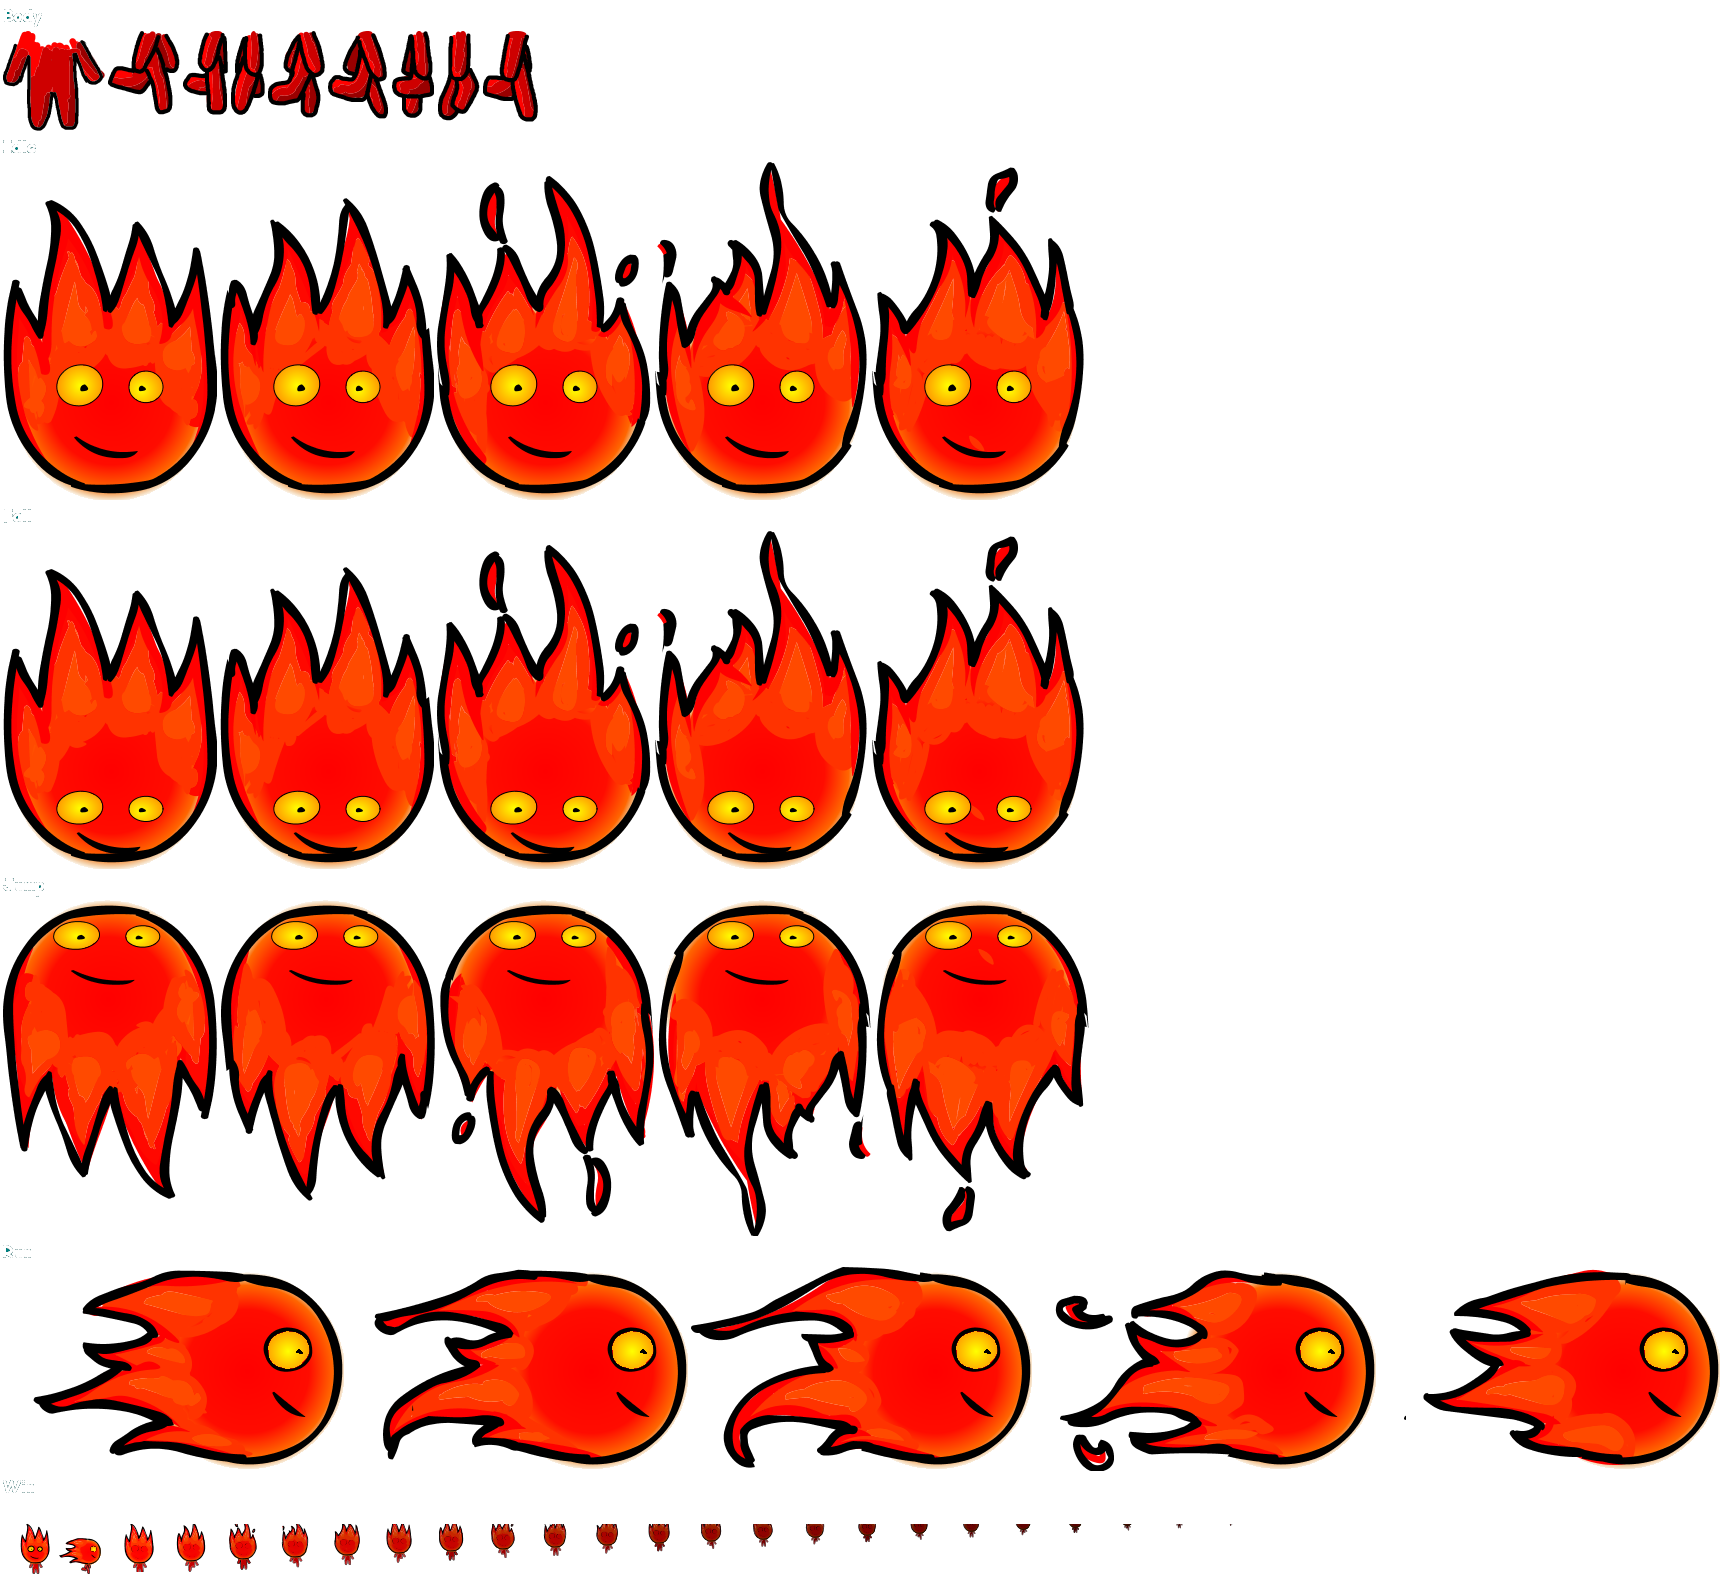
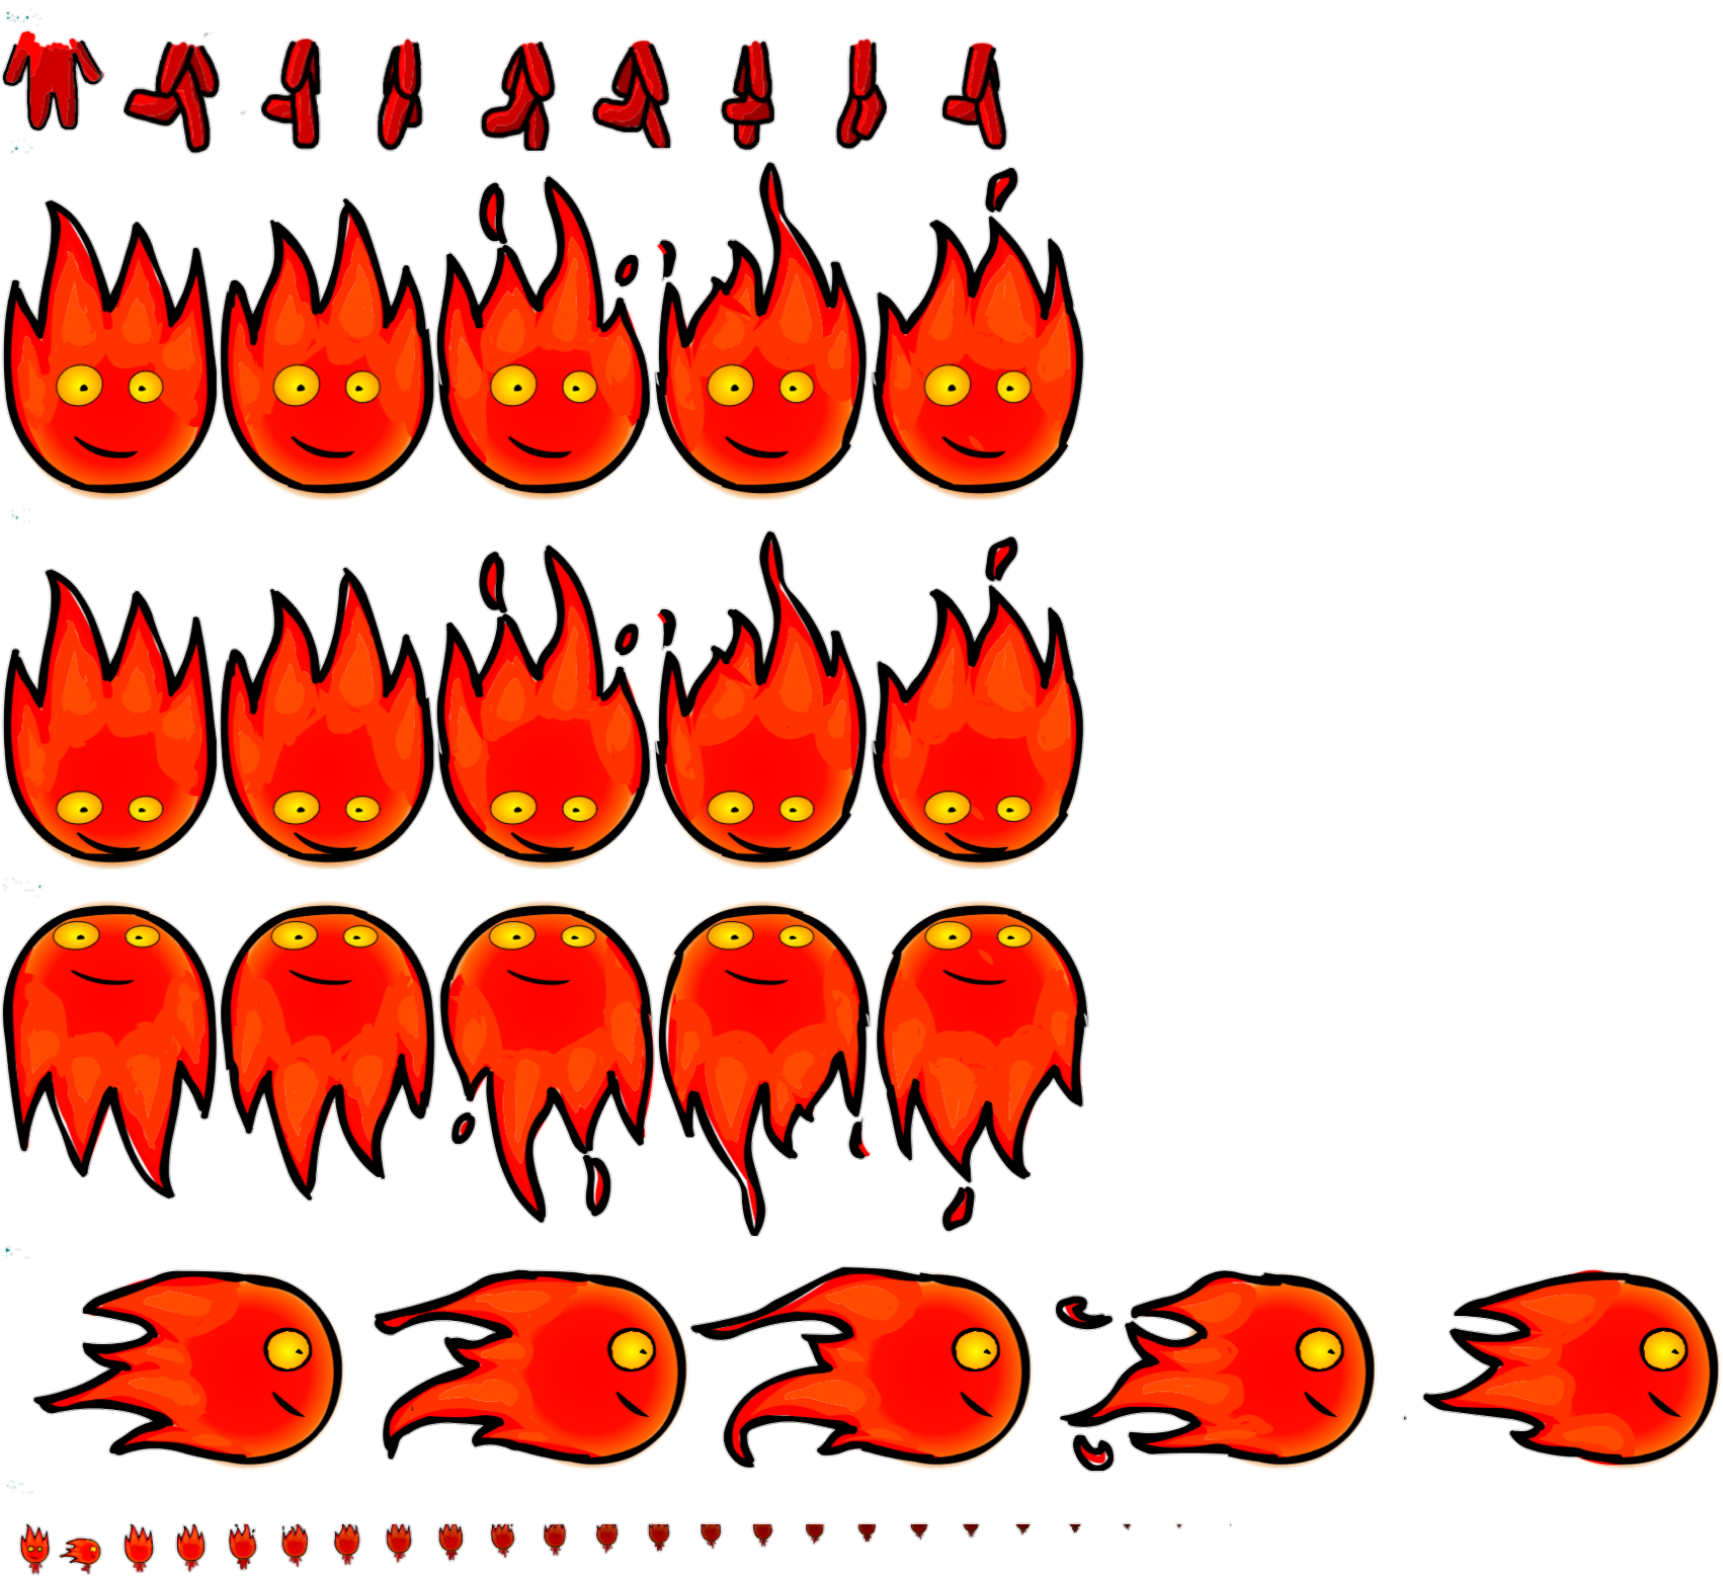
Ajeita animações do fogo e agua

diff --git a/FireboyWatergirl/Player.cpp b/FireboyWatergirl/Player.cpp
@@ -26,18 +26,18 @@ Player::Player(bool is_fireboy) : is_fireboy(is_fireboy)
     if (is_fireboy) {
         tiles = new Image("Resources/Characters/Fireboy.png");
 
-        anim_head_idle = new Animation(TileSet(tiles, 217, 338, 1, 5, 2, 162), 0.05f, true, true);
-        anim_head_fall = new Animation(TileSet(tiles, 217, 338, 1, 5, 2, 532), 0.05f, true, true);
-        anim_head_jump = new Animation(TileSet(tiles, 217, 338, 1, 5, 2, 900), 0.05f, true, true);
+        anim_head_idle = new Animation(TileSet(tiles, 217, 338, 1, 5, 2, 162), 0.05f, true);
+        anim_head_fall = new Animation(TileSet(tiles, 217, 338, 1, 5, 2, 532), 0.05f, true);
+        anim_head_jump = new Animation(TileSet(tiles, 217, 338, 1, 5, 2, 900), 0.05f, true);
 
-        anim_head_run = new Animation(TileSet(tiles, 344, 204, 1, 5, 2, 1267), 0.05f, true, true);
+        anim_head_run = new Animation(TileSet(tiles, 344, 204, 1, 5, 2, 1267), 0.05f, true);
 
-        anim_body_run = new Animation(TileSet(tiles, 72, 84, 1, 8, 108, 31), 0.05f, true, true);
+        anim_body_run = new Animation(TileSet(tiles, 116, 100, 1, 8, 106, 40), 0.05f, true);
 
-        anim_body_idle = new Animation(TileSet(tiles, 102, 100, 1, 1, 3, 31), 0.05f, true, true);
+        anim_body_idle = new Animation(TileSet(tiles, 102, 100, 1, 1, 3, 31), 0.05f, true);
 
         // TODO
-        anim_win = new Animation(TileSet(tiles, 341, 204, 1, 5, 3, 1267), 0.05f, true, true);     
+        anim_win = new Animation(TileSet(tiles, 341, 204, 1, 5, 3, 1267), 0.05f, true);     
     }
     else {
         tiles = new Image("Resources/Characters/Watergirl.png");
@@ -48,7 +48,7 @@ Player::Player(bool is_fireboy) : is_fireboy(is_fireboy)
 
         anim_head_run = new Animation(TileSet(tiles, 378, 240, 1, 11, 2, 1877), 0.05f, true);
 
-        anim_body_run = new Animation(TileSet(tiles, 72, 84, 1, 8, 108, 31), 0.05f, true);
+        anim_body_run = new Animation(TileSet(tiles, 118, 100, 1, 8, 95, 40), 0.05f, true);
 
         anim_body_idle = new Animation(TileSet(tiles, 102, 100, 1, 1, 3, 31), 0.05f, true);
 
@@ -109,10 +109,10 @@ void Player::Reset(int level)
 
 void Player::updateState()
 {
-    if (velocity->YComponent() > 0 && velocity->Angle() == 90) {
+    if (velocity->YComponent() > 0 && velocity->Angle() > 85 && velocity->Angle() < 95) {
         state = JUMPING;
     }
-    else if (abs(velocity->XComponent()) > 0) {
+    else if (abs(velocity->XComponent()) > 0.1) {
         state = RUNNING;
     }
     else if (velocity->YComponent() < 0) {
@@ -220,9 +220,6 @@ void Player::Update()
 
     if (!enable_controls) return;
 
-    OutputDebugString(std::to_string(gameTime).c_str());
-    OutputDebugString("\n");
-
     // Resetar o estado em todo frame para conferir na colisão com o portal para o próximo nível
     ready_next_level = false;
 
@@ -253,7 +250,7 @@ void Player::Update()
         if (
             !window->KeyDown(controls[key_right][is_fireboy]) && !window->KeyDown(controls[key_left][is_fireboy]) ||
             window->KeyDown(controls[key_right][is_fireboy]) && window->KeyDown(controls[key_left][is_fireboy])
-            ) {
+        ) {
             slowDown();
         }
     }
@@ -289,10 +286,22 @@ inline void Player::Draw()
     case RUNNING:
         current_anim_body = anim_body_run;
         current_anim_head = anim_head_run;
-        mirror_x = (velocity->XComponent() < 0);
+        if (velocity->YComponent() != 0) current_anim_body->Restart();
+
         rotation_head = (velocity->XComponent() > 0) ? velocity->Angle() : velocity->Angle() - 180;
         if (rotation_head > 45 && rotation_head < 90)        rotation_head = 45;
         else if (rotation_head < 315 && rotation_head > 270) rotation_head = 315;
+
+        mirror_x = (velocity->XComponent() < 0);
+        offset_y -= 20;
+        if (is_fireboy) {
+            offset_x = mirror_x ? -35 : 40;
+        }
+        else {
+            offset_x = mirror_x ? -40 : 40;
+            if (rotation_head != 0 && velocity->YComponent() > 0) offset_y -= 10;
+            if (velocity->YComponent() < 0) offset_x -= 10;
+        }
         break;
     case JUMPING:
         current_anim_body = anim_body_idle;
@@ -306,21 +315,26 @@ inline void Player::Draw()
     default:
         break;
     }
-
-    //if (!is_fireboy) {
-    //    OutputDebugString(std::to_string(velocity->Angle()).c_str());
-    //    OutputDebugString(" ");
-    //    OutputDebugString(std::to_string(velocity->Magnitude()).c_str());
-    //    OutputDebugString("\n");
-    //}
     
+    float offset_body = is_fireboy ? 0 : -13;
+    offset_y += offset_body;
+
+    float head_x = x - offset_x * scale_head * scale;
+    float head_y = y - offset_y * scale_head * scale;
+
     if (state != JUMPING) {
-        current_anim_body->Draw(x, y + (current_anim_body->tileSet()->TileHeight() / 2.0) * scale, z, scale, 0, mirror_x);
-        current_anim_head->Draw(x - offset_x * scale, y - offset_y * scale_head * scale, z, scale_head * scale, -rotation_head, mirror_x);
+        float point_rotation_x = head_x - x;
+        float point_rotation_y = 0;
+        float angle_radians = rotation_head * (PI / 180);
+        head_x += point_rotation_x * (1 - cos(angle_radians)) + point_rotation_y * sin(angle_radians);
+        head_y += -point_rotation_x * sin(angle_radians) + point_rotation_y * (1 - cos(angle_radians));
+
+        current_anim_body->Draw(x, y + (current_anim_body->tileSet()->TileHeight() / 2.0 - offset_body) * scale, z, scale, 0, mirror_x);
+        current_anim_head->Draw(head_x, head_y, z, scale_head * scale, -rotation_head, mirror_x);
     }
     else {
         offset_y -= 25;
-        current_anim_head->Draw(x - offset_x * scale, y - offset_y * scale_head * scale, z, scale_head * scale, -rotation_head, mirror_x);
-        current_anim_body->Draw(x, y + (current_anim_body->tileSet()->TileHeight() / 2.0) * scale, z, scale, 0, mirror_x);
+        current_anim_head->Draw(head_x, head_y, z, scale_head * scale, -rotation_head, mirror_x);
+        current_anim_body->Draw(x, y + (current_anim_body->tileSet()->TileHeight() / 2.0 - offset_body) * scale, z, scale, 0, mirror_x);
     }
 }
